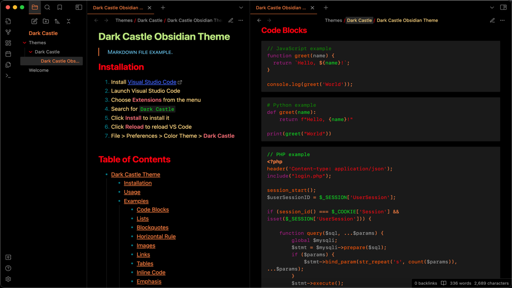
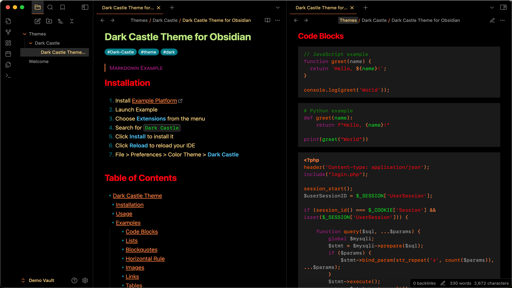
Update theme for markdown palette

diff --git a/theme.css b/theme.css
@@ -28,12 +28,13 @@ body.theme-dark {
   --dark-castle-palette-dark-teal: #007B88;
   --dark-castle-palette-dark-blue: #2D449B;
   --dark-castle-palette-dark-purple: #AA1B86;
+  
   /* Color Variables */
   --dark-castle-accent-h: 40;
   --dark-castle-accent-s: 100%;
   --dark-castle-accent-l: 70%;
   --dark-castle-accent: var(--dark-castle-palette-light-orange);
-  --dark-castle-text-faint: var(--dark-castle-palette-red);
+  --dark-castle-text-faint: var(--dark-castle-palette-light-orange);
   --dark-castle-text-muted: var(--dark-castle-palette-light-gray);
   --dark-castle-code-variable: var(--dark-castle-palette-green);
   --dark-castle-code-function: var(--dark-castle-palette-orange);
@@ -67,13 +68,49 @@ body.theme-dark {
   );
   --dark-castle-text-normal: var(--dark-castle-palette-light-gray);
   /*--dark-castle-text-muted: #8695b799;*/
-  --dark-castle-accent-hover: var(--dark-castle-palette-dark-gray);
+  --dark-castle-accent-hover: var(--dark-castle-palette-light-yellow); /* Hover Accent */
   --dark-castle-palette-light-blue-hover: color-mix(
     in hsl shorter hue,
     var(--dark-castle-palette-light-blue),
     var(--dark-castle-palette-light-gray)
   );
 }
+
+/* Inline Code & Borders */
+body:is(.theme-dark)
+  .cm-s-obsidian span.cm-inline-code {
+    color: var(--dark-castle-palette-green);
+    border: 1px solid var(--dark-castle-palette-gray);
+    border-radius: 4px;
+}
+
+body:is(.theme-dark)
+  .cm-s-obsidian span.cm-formatting-code.cm-inline-code {
+  border-right-width: 0;
+  border-top-right-radius: 0;
+  border-bottom-right-radius: 0;
+}
+
+body:is(.theme-dark)
+  .cm-s-obsidian span.cm-formatting-code.cm-inline-code + span.cm-inline-code {
+  border-right: none;
+  border-left: none;
+  border-radius: 0;
+}
+
+body:is(.theme-dark)
+  .cm-s-obsidian
+  span.cm-formatting-code.cm-inline-code
+  + span.cm-inline-code
+  + span.cm-formatting-code.cm-inline-code {
+  border-left-width: 0;
+  border-top-left-radius: 0;
+  border-bottom-left-radius: 0;
+  border-right-width: 1px;
+  border-top-right-radius: 4px;
+  border-bottom-right-radius: 4px;
+}
+
 body:is(.theme-dark) {
   --color-base-00: var(--dark-castle-palette-black);
   --color-base-05: var(--dark-castle-palette-black-02-mix);
@@ -144,20 +181,20 @@ body:is(.theme-dark) {
 
 body.theme-dark .setting-item, 
 body.theme-dark .setting-item .setting-item-control {
-  border-color: var(--dark-castle-palette-dark-blue); /* Change this to your desired border color */
+  border-color: var(--dark-castle-palette-dark-blue); /* Border divider color */
 }
 
 body.theme-dark .modal,
 body.theme-dark .prompt {
-  border-color: var(--dark-castle-palette-light-gray); /* Change this to your desired border color */
-  border-width: 1px; /* You can adjust the width as needed */
-  border-style: solid; /* You can change the border style if needed */
+  border-color: var(--dark-castle-palette-gray); /* Border color */
+  border-width: 1px;
+  border-style: solid;
 }
 
 body:where(.theme-dark) {
   --icon-stroke: 2px;
-  --icon-color-active: var(--interactive-accent);
-  --icon-color-focused: var(--interactive-accent);
+  --icon-color-active: var(--dark-castle-palette-light-yellow);
+  --icon-color-focused: var(--dark-castle-palette-light-yellow);
   --clickable-icon-radius: 0;
 }
 body:where(.theme-dark) {
@@ -166,15 +203,19 @@ body:where(.theme-dark) {
   --radius-l: 6px;
   --radius-xl: 8px;
 }
+/* Bold, Italic, & Strikethrough */
 body:where(.theme-dark) {
-  --bold-color: var(--dark-castle-palette-light-red);
-  --italic-color: var(--dark-castle-palette-light-red);
+  --bold-color: var(--dark-castle-palette-light-blue);
+  --italic-color: var(--dark-castle-palette-light-blue);
+  --strikethrough-color: var(--dark-castle-palette-light-blue);
 }
+
+/* Checkboxes */
 body:is(.theme-dark) {
-  --checkbox-color: var(--dark-castle-palette-purple);
-  --checkbox-color-hover: var(--dark-castle-palette-purple-hover);
-  --checkbox-border-color: var(--dark-castle-palette-purple);
-  --checkbox-border-color-hover: var(--dark-castle-accent-hover);
+  --checkbox-color: var(--dark-castle-palette-dark-purple);
+  --checkbox-color-hover: var(--dark-castle-palette-purple);
+  --checkbox-border-color: var(--dark-castle-palette-dark-purple);
+  --checkbox-border-color-hover: var(--dark-castle-palette-purple);
 }
 body:where(.theme-dark) {
   --drag-ghost-background: var(--dark-castle-palette-dark-gray);
@@ -185,7 +226,7 @@ body:where(.theme-dark) {
 }
 body:where(.theme-dark) {
   --nav-item-color: var(--text-muted);
-  --nav-item-color-active: var(--interactive-accent);
+  --nav-item-color-active: var(--dark-castle-palette-light-yellow);
   --nav-item-color-selected: var(--dark-castle-palette-light-blue);
   --nav-item-background-selected: var(--dark-castle-palette-dark-gray);
 }
@@ -193,9 +234,9 @@ body:where(.theme-dark) {
   --prompt-border-color: var(--dark-castle-palette-black-03-mix);
 }
 body:where(.theme-dark) {
-  --tab-text-color-active: var(--text-accent);
-  --tab-text-color-focused-active: var(--text-accent);
-  --tab-text-color-focused-active-current: var(--text-accent);
+  --tab-text-color-active: var(--dark-casle-palette-light-yellow);
+  --tab-text-color-focused-active: var(--dark-casle-palette-light-yellow);
+  --tab-text-color-focused-active-current: var(--dark-casle-palette-light-yellow);
   --tab-divider-color: var(--titlebar-background);
   --tab-outline-width: 0px;
   --tab-curve: 0px;
@@ -203,17 +244,26 @@ body:where(.theme-dark) {
   --tab-radius-active: 0px;
 }
 body:where(.theme-dark) {
-  --input-radius: 0px;
-}
-body:where(.theme-dark) {
   --toggle-thumb-color: var(--text-on-accent);
 }
+/*
+body:where(.theme-dark) {
+  --input-radius: 0px;
+}
+*/
+/*
 body:where(.theme-dark) {
   --blockquote-color: color-mix(
     in srgb,
     var(--dark-castle-palette-light-blue) 75%,
     var(--dark-castle-text-normal)
   );
+}
+*/
+
+/* Blockquote */
+body:where(.theme-dark) {
+  --blockquote-color: var(--dark-castle-palette-dark-purple);
 }
 body:where(.theme-dark) {
   --callout-padding: var(--size-4-3) var(--size-4-6);
@@ -272,15 +322,18 @@ body:where(.theme-dark) {
     var(--dark-castle-palette-dark-blue)
   ); /* --hr-thickness: ; */
 }
+
+/* Links */
 body:where(.theme-dark) {
   --link-color: var(--dark-castle-accent);
-  --link-color-hover: var(--dark-castle-accent-hover);
+  --link-color-hover: var(--dark-castle-palette-blue);
   --link-unresolved-color: var(--dark-castle-accent);
   --link-unresolved-decoration-style: dashed;
-  --link-unresolved-decoration-color: var(--dark-castle-accent);
-  --link-external-color: var(--dark-castle-palette-blue);
-  --link-external-color-hover: var(--dark-castle-accent-hover);
+  --link-unresolved-decoration-color: var(--dark-castle-palette-blue);
+  --link-external-color: var(--dark-castle-accent);
+  --link-external-color-hover: var(--dark-castle-palette-blue);
 }
+
 body:where(.theme-dark) {
   --list-marker-color: var(--dark-castle-palette-dark-teal);
   --list-marker-color-hover: var(--dark-castle-accent-hover);
@@ -290,16 +343,24 @@ body:where(.theme-dark) {
   --metadata-label-text-color: var(--dark-castle-palette-light-blue);
   --metadata-label-text-color-hover: var(--dark-castle-palette-light-blue-hover);
 }
+
+/* Table */
 body:where(.theme-dark) {
   --table-background: var(--background-primary);
   --table-header-background-hover: var(--table-background);
   --table-header-size: larger;
 }
+
+/* Tags */
 body:where(.theme-dark) {
-  --tag-size: var(--code-size);
-  --tag-color: var(--dark-castle-palette-light-blue);
-  --tag-color-hover: var(--dark-castle-palette-light-blue);
+  --tag-size: 12px;
+  --tag-color: var(--dark-castle-palette-white);
+  --tag-color-hover: var(--dark-castle-palette-dark-teal);
   --tag-decoration-hover: underline;
+  --tag-background: var(--dark-castle-palette-dark-teal);
+  --tag-background-hover: var(--dark-castle-palette-white);
+}
+  /*
   --tag-background: color-mix(
     in hsl shorter hue,
     var(--tag-color) 25%,
@@ -311,6 +372,7 @@ body:where(.theme-dark) {
     transparent
   );
 }
+*/
 body:where(.theme-dark) {
   --vault-name-font-size: 1em;
   --vault-name-color: var(--interactive-accent);
@@ -346,11 +408,7 @@ body.theme-dark:not(.no-fix-border-radius)
   .metadata-properties-heading:focus:before {
   border-radius: 2px;
 }
-body.theme-dark:not(.no-fix-code-highlighting)
-  .cm-s-obsidian
-  span.cm-inline-code {
-  color: var(--dark-castle-palette-light-blue);
-}
+
 body.theme-dark:not(.no-fix-community-plugin-highlights)
   .community-item
   .suggestion-highlight {
@@ -465,6 +523,7 @@ body:is(.theme-dark):not(.dont-make-blockquotes-small-caps)
   :is(pre, code) {
   font-variant: normal;
 }
+/* Bold, Italic, & Strikethrough */
 body:where(.theme-dark):not(.dont-make-blockquotes-small-caps) .cm-em.cm-quote {
   color: var(--italic-color);
 }
@@ -472,11 +531,15 @@ body:where(.theme-dark):not(.dont-make-blockquotes-small-caps)
   .cm-strong.cm-quote {
   color: var(--bold-color);
 }
+body:where(.theme-dark) .cm-s-obsidian span.cm-strikethrough {
+  color: var(--strikethrough-color);
+}
+/* Nav Files */
 body:where(.theme-dark):not(.is-grabbing):not(
     .dont-make-file-explorer-hover-yellow
   )
   :is(.nav-file-title:hover, .nav-folder-title:hover) {
-  color: var(--interactive-accent-hover);
+  color: var(--dark-castle-accent);
 }
 body.theme-dark:not(.dont-make-prompt-suggestions-emphasized)
   .prompt
@@ -665,4 +728,11 @@ body.theme-dark.highlightr-floating
 }
 body:is(.theme-dark) .markdown-source-view:is(.is-live-preview) mark {
   color: var(--text-normal);
+}
+
+/* Popup Notification */
+body:is(.theme-dark)
+  .notice {
+  color: var(--dark-castle-accent);
+  background-color: var(--dark-castle-palette-black);
 }

diff --git a/.github/CHANGELOG.md b/.github/CHANGELOG.md
@@ -5,6 +5,13 @@ All notable changes to this project will be documented in this file.
 The format is based on [Keep a Changelog](https://keepachangelog.com/en/1.1.0/),
 and this project adheres to [Semantic Versioning](https://semver.org/spec/v2.0.0.html).
 
+## [1.0.6] - 2024-06-20
+
+### Changed
+
+- Updated `README`.
+- Updated theme for `Markdown` color palette.
+
 ## [1.0.5] - 2024-06-14
 
 ### Fixed
@@ -42,6 +49,7 @@ and this project adheres to [Semantic Versioning](https://semver.org/spec/v2.0.0
 
 - Official release of **Dark Castle Theme for Obsidian**.
 
+[1.0.6]: https://github.com/scottgriv/Dark-Castle-Obsidian/compare/v1.0.5...v1.0.6
 [1.0.5]: https://github.com/scottgriv/Dark-Castle-Obsidian/compare/v1.0.4...v1.0.5
 [1.0.4]: https://github.com/scottgriv/Dark-Castle-Obsidian/compare/v1.0.3...v1.0.4
 [1.0.3]: https://github.com/scottgriv/Dark-Castle-Obsidian/compare/v1.0.2...v1.0.3

diff --git a/README.md b/README.md
@@ -3,7 +3,7 @@
         <img src="./docs/images/icon.png" width="250" height="250"/>
     </a>
 </div>
-<h1 align="center">Dark Castle Theme for     
+<h1 align="center">Dark Castle for     
     <a href="http://obsidian.md" target="_blank">
     Obsidian
     </a>
